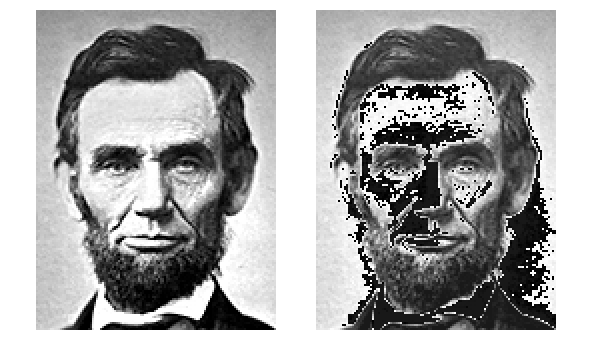
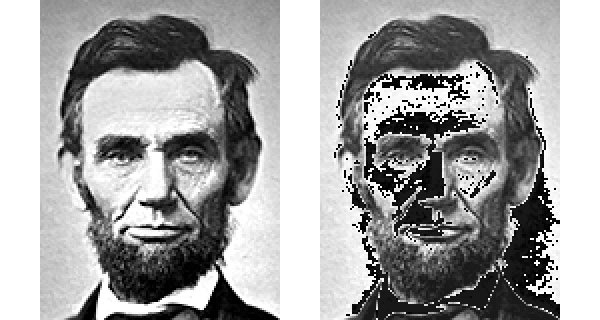
Added subsection on absolute differencing.

diff --git a/chapters/image_processing_computer_vision/chapter.md b/chapters/image_processing_computer_vision/chapter.md
@@ -545,17 +545,17 @@ for (int indexGray=0; indexGray<nBytesGrayscale; indexGray++){
 ```
 
 
-### Image arithmetic: Mathematical Operations on Images
+## Image Arithmetic: Math Operations on Images
 
-A core part of the workflow of computer vision is *image arithmetic*. These are the basic mathematical operations we all know—addition, subtraction, multiplication, and division—but translated to the image domain. The key to image arithmetic is that these operations are performed *pixelwise*—meaning, for every pixel in an image.
+A core part of the workflow of computer vision is *image arithmetic*. These are the basic mathematical operations we all know—addition, subtraction, multiplication, and division—but as these are applied to images. Developers use such operations ubiquitously, and for a wide range of reasons. The key to understanding image arithmetic is that these operations are performed *pixelwise*—meaning, atomically, for every pixel in an image.
 
-#### Image Arithmetic with Constants
+### Image Arithmetic with Constants
 
-The simplest forms of image arithmetic alter the values in an image by a constant. In the example below, we add the constant value, 10, to an 8-bit monochrome image. Observe how the value is added pixelwise: each pixel in the resulting ("destination") image is 10 gray-levels brighter than its corresponding pixel in the source image:
+The simplest forms of image arithmetic transform the values in an image by a constant. In the example below, we add the constant value, **10**, to an 8-bit monochrome image. Observe how the value is added pixelwise: each pixel in the resulting destination image stores a number which is 10 more (i.e. 10 gray-levels brighter) than its corresponding pixel in the source image:
 
 ![Pixelwise image arithmetic](images/image_arithmetic_2.png)
 
-*Adding* a constant makes an image uniformly brighter, while *subtracting* a constant makes it uniformly darker. The code below shows one method of performing such arithmetic in openFrameworks. Here, we perform simple image arithmetic "from scratch", by directly manipulating the contents of pixel buffers.   
+Adding a constant makes an image uniformly brighter, while subtracting a constant makes it uniformly darker. In the code below, we implement simple image arithmetic "from scratch", by directly manipulating the contents of pixel buffers. Although practical computer vision projects will often make use of higher-level libraries (such as OpenCV), it's important to understand what's going on underneath. 
 
 ```
 // This is ofApp.h
@@ -621,28 +621,94 @@ void ofApp::draw(){
 }
 ```
 
-#### Heads Up! A Warning about Integer Overflow
+### A Warning about Integer Overflow
 
-Just like regular arithmetic, image arithmetic is simple! But there's a lurking peril: *[integer overflow](http://en.wikipedia.org/wiki/Integer_overflow)*.
+Image arithmetic is simple! But there's a lurking peril when arithmetic operations are applied to the values stored in pixels: *[integer overflow](http://en.wikipedia.org/wiki/Integer_overflow)*.
 
 Consider what happens when we add 10 to the specially-marked pixel in the bottom row of the illustration above. Its initial value is 251—but the largest number we can store in an unsigned char is 255! What should the resulting value be? More generally, what happens if we attempt to assign a pixel value that's too large to be represented by our pixel's data type?
 
-The answer is: it depends which tools you're using, and it can have significant consequences! Some libraries, like OpenCV, will clamp or constrain all arithmetic to the data's desired range; thus, adding 10 to 251 will result in a maxed-out value of 255 (a solution sometimes known as "saturation"). In other situations, such as with our direct editing of unsigned chars in the code above, we risk "rolling over" the data, wrapping around zero like a car's odometer. Without the ability to carry, only the least significant bits are retained. In the land of unsigned chars, adding 10 to 251 gives... 6!
+The answer is: it depends which libraries or programming techniques you're using, and it can have significant consequences! Some image-processing libraries, like OpenCV, will clamp or constrain all arithmetic to the data's desired range; thus, adding 10 to 251 will result in a maxed-out value of 255 (a solution sometimes known as "saturation"). In other situations, such as with our direct editing of unsigned chars in the code above, we risk "rolling over" the data, wrapping around zero like a car's odometer. Without the ability to carry, only the least significant bits are retained. In the land of unsigned chars, adding 10 to 251 gives... 6!
 
-The perils of integer overflow are readily apparent in the illustration below. I have lightend a source image of Abraham Lincoln, by adding 25 to all of its pixel values; without any preventative measures in place, many of the light-colored pixels have wrapped around and become dark. 
+The perils of integer overflow are readily apparent in the illustration below. I have lightend a source image of Abraham Lincoln, by adding a constant to all of its pixel values; without any preventative measures in place, many of the light-colored pixels have "wrapped around" and become dark. 
 
 ![Numeric overflow](images/numeric_overflow.png)
 
-Integer overflow in the example above can be avoided by promoting the added numbers to integers, and including a saturating constraint:
+In the example above, integer overflow can be avoided by promoting the added numbers to integers, and including a saturating constraint:
 ```
-dstArray[index] = min(255, (int)srcValue + 25);
+dstArray[index] = min(255, (int)srcValue + 10);
+```
+Integer overflow can also present problems with other arithmetic operations, such as multiplication and subtraction (when values go negative). 
+
+### Image Arithmetic with the ofxOpenCv Addon
+
+Here's the same example as above, re-written using the ofxOpenCV addon library, which comes with the openFrameworks core download. Note the following: 
+
+* As with all addons, it's important to include the ofxOpenCV addon properly in your project. The ProjectGenerator can help with this. 
+* ofxOpenCv provides convenient methods for copying data between images.
+* ofxOpenCv provides convenient operators for performing image arithmetic.
+* ofxOpenCv's arithmetic operations saturate, so integer overflow is not a concern.
+* ofxOpenCv does not currently provide methods for loading images, so we employ an `ofImage` as an intermediary for doing so.  
+
+```
+// This is ofApp.h
+#pragma once
+
+#include "ofMain.h"
+#include "ofxOpenCv.h"
+
+class ofApp : public ofBaseApp{
+	public:
+		void setup();
+		void draw();
+		ofxCvGrayscaleImage lincolnCvImageSrc;
+		ofxCvGrayscaleImage lincolnCvImageDst;
+};
 ```
 
-Integer overflow is also an issue with other arithmetic operations, such as multiplication and subtraction (when values go negative). Be careful!
+```
+// This is ofApp.cpp
+#include "ofApp.h"
 
+void ofApp::setup(){
+	
+	// ofxOpenCV doesn't have image loading.
+	// So first, load the .png file into a temporary ofImage.
+	ofImage lincolnOfImage;
+	lincolnOfImage.loadImage("lincoln_120x160.png");
+	lincolnOfImage.setImageType(OF_IMAGE_GRAYSCALE);
+	
+	// Set the lincolnCvImage from the pixels of this ofImage.
+	int imgW = lincolnOfImage.getWidth();
+	int imgH = lincolnOfImage.getHeight();
+	unsigned char *lincolnPixels = lincolnOfImage.getPixels();
+	lincolnCvImageSrc.setFromPixels( lincolnPixels, imgW, imgH);
+	
+	// Make a copy of the source image into the destination.
+	lincolnCvImageDst = lincolnCvImageSrc;
+	
+	// ofxOpenCV has handy operators for in-place image arithmetic.
+	lincolnCvImageDst += 60;
+}
 
+//---------------------
+void ofApp::draw(){
+	ofBackground(255);
+	ofSetColor(255);
+	
+	lincolnCvImageSrc.draw (20,20,  120,160);
+	lincolnCvImageDst.draw (160,20, 120,160);
+}
+```
+Here's the result. Note how the values have saturated instead of overflowed. 
+![Numeric overflow](images/image_lightening.png)
 
+### Arithmetic with *Two* Images
 
+Image arithmetic becomes truly useful when applied to two images. It is possible to add two images, multiply two images, subtract one image from another, and divide one image by another. When performing an operation (such as addition) on two images, *A* and *B*, the first pixel of *A* is added to the first pixel of *B*, the second pixel of *A* is added to the second pixel of *B*, and so forth. 
+
+One of the most useful operations is the *absolute difference* of two images, illustrated below. This operation is equivalent to taking the absolute value of *A-B*. Absolute differencing is a key step in workflows like frame-differencing and background subtraction, as discussed in the next section.  
+
+![Absolute Difference](images/absolute-difference.png)
 
 In the examples presented here, for the sake of simplicity, we'll assume that the images upon which we'll perform these operations are all the same size -- for example, 640x480 pixels, a typical capture size for many SD ("standard definition") webcams. We'll also assume that these images are monochrome or grayscale.
 
@@ -653,6 +719,8 @@ In the examples presented here, for the sake of simplicity, we'll assume that th
 - Example: creating an average of several images (e.g. Jason Salavon)
 - Example: creating a running average
 - Example: creating a circular alpha-mask from a computed Blinn spot
+
+![Absolute Difference](images/full_pipeline.png)
 
 
 ### Filtering and Noise Removal Convolution Filtering
